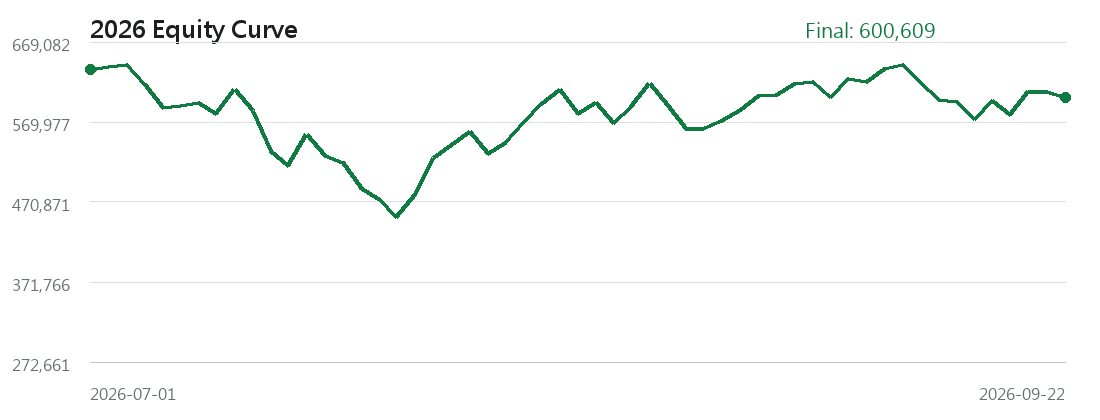
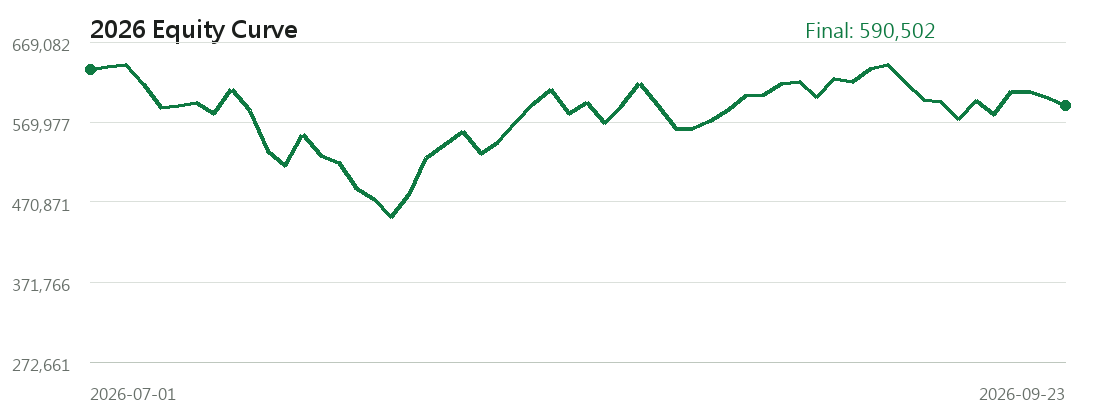
Update dashboard data

diff --git a/data.js b/data.js
@@ -1,5 +1,5 @@
 window.PUBLIC_FOLLOW_DATA = {
-  "generated_at": "2026-09-22T20:08:55.493049+08:00",
+  "generated_at": "2026-09-23T18:33:59.766392+08:00",
   "public_note": "Static follow dashboard only. Backend code, database, cache, and parameter search files are local-only.",
   "assumptions": {
     "initial_capital": 300000.0,
@@ -8,25 +8,25 @@ window.PUBLIC_FOLLOW_DATA = {
     "position_sizing": "Capital is split across up to 5 positions with integer-share sizing."
   },
   "data_status": {
-    "signal_date": "2026-09-22",
-    "latest_chip_date": "2026-09-22",
-    "latest_price_date": "2026-09-22",
-    "candidate_count": 4,
+    "signal_date": "2026-09-23",
+    "latest_chip_date": "2026-09-23",
+    "latest_price_date": "2026-09-23",
+    "candidate_count": 0,
     "warning": null
   },
   "metrics": {
     "initial_capital": 300000.0,
-    "final_value": 600609.045049286,
-    "cash": 8408.045049285924,
-    "total_return_pct": 100.20301501642868,
-    "annualized_return_pct": 176.63985917123662,
+    "final_value": 590502.045049286,
+    "cash": 7184.045049285924,
+    "total_return_pct": 96.83401501642865,
+    "annualized_return_pct": 168.77336020496898,
     "start_date": "2026-01-16",
-    "end_date": "2026-09-22",
-    "closed_trade_count": 62,
-    "entry_count": 63,
+    "end_date": "2026-09-23",
+    "closed_trade_count": 63,
+    "entry_count": 64,
     "open_position_count": 5,
-    "closed_trade_win_rate_pct": 50.0,
-    "average_closed_trade_return_pct": 0.30333407983665467,
+    "closed_trade_win_rate_pct": 49.2063492063492,
+    "average_closed_trade_return_pct": 0.2868693332657802,
     "max_drawdown_pct": -29.55548087303479,
     "performance_source": "actual_follow_account"
   },
@@ -360,6 +360,12 @@ window.PUBLIC_FOLLOW_DATA = {
       "equity": 600609.045049286,
       "cash": 8408.045049285924,
       "position_count": 5
+    },
+    {
+      "date": "2026-09-23",
+      "equity": 590502.045049286,
+      "cash": 7184.045049285924,
+      "position_count": 5
     }
   ],
   "holdings": [
@@ -369,11 +375,11 @@ window.PUBLIC_FOLLOW_DATA = {
       "quantity": 220,
       "entry_date": "2026-09-17",
       "entry_price": 558.0,
-      "current_price_date": "2026-09-22",
-      "current_price": 526.0,
-      "market_value": 115720.0,
-      "unrealized_return_pct": -5.734767025089605,
-      "holding_days": 5,
+      "current_price_date": "2026-09-23",
+      "current_price": 520.0,
+      "market_value": 114400.0,
+      "unrealized_return_pct": -6.810035842293905,
+      "holding_days": 6,
       "concept_tag_names": [
         "矽光子/CPO",
         "光纖傳輸/光通訊",
@@ -394,11 +400,11 @@ window.PUBLIC_FOLLOW_DATA = {
       "quantity": 567,
       "entry_date": "2026-09-18",
       "entry_price": 204.0,
-      "current_price_date": "2026-09-22",
-      "current_price": 205.0,
-      "market_value": 116235.0,
-      "unrealized_return_pct": 0.4901960784313708,
-      "holding_days": 4,
+      "current_price_date": "2026-09-23",
+      "current_price": 206.0,
+      "market_value": 116802.0,
+      "unrealized_return_pct": 0.9803921568627416,
+      "holding_days": 5,
       "concept_tag_names": [
         "電子通路",
         "證券券商",
@@ -416,39 +422,16 @@ window.PUBLIC_FOLLOW_DATA = {
       ]
     },
     {
-      "stock_id": "2455",
-      "company_name": "全新",
-      "quantity": 216,
-      "entry_date": "2026-09-18",
-      "entry_price": 545.0,
-      "current_price_date": "2026-09-22",
-      "current_price": 547.0,
-      "market_value": 118152.0,
-      "unrealized_return_pct": 0.3669724770642091,
-      "holding_days": 4,
-      "concept_tag_names": [
-        "RF前端/功率放大器",
-        "證券券商",
-        "光纖傳輸/光通訊",
-        "光通訊模組",
-        "塑膠原料/樹脂",
-        "投資控股",
-        "矽光子/CPO",
-        "矽光子/光通訊",
-        "網安/網路設備"
-      ]
-    },
-    {
       "stock_id": "6472",
       "company_name": "保瑞",
       "quantity": 273,
       "entry_date": "2026-09-21",
       "entry_price": 446.5,
-      "current_price_date": "2026-09-22",
-      "current_price": 420.0,
-      "market_value": 114660.0,
-      "unrealized_return_pct": -5.935050391937291,
-      "holding_days": 1,
+      "current_price_date": "2026-09-23",
+      "current_price": 436.0,
+      "market_value": 119028.0,
+      "unrealized_return_pct": -2.3516237402015694,
+      "holding_days": 2,
       "concept_tag_names": [
         "證券券商",
         "ASIC設計服務",
@@ -466,11 +449,11 @@ window.PUBLIC_FOLLOW_DATA = {
       "quantity": 402,
       "entry_date": "2026-09-22",
       "entry_price": 314.0,
-      "current_price_date": "2026-09-22",
-      "current_price": 317.0,
-      "market_value": 127434.0,
-      "unrealized_return_pct": 0.9554140127388644,
-      "holding_days": 0,
+      "current_price_date": "2026-09-23",
+      "current_price": 304.0,
+      "market_value": 122208.0,
+      "unrealized_return_pct": -3.1847133757961776,
+      "holding_days": 1,
       "concept_tag_names": [
         "CoWoS/先進封裝",
         "證券券商",
@@ -480,155 +463,49 @@ window.PUBLIC_FOLLOW_DATA = {
         "測試驗證服務",
         "半導體IP/設計服務"
       ]
-    }
-  ],
-  "trade_plan": {
-    "sell_orders": [
-      {
-        "stock_id": "2455",
-        "company_name": "全新",
-        "quantity": 216,
-        "price": 547.0,
-        "amount": 118152.0,
-        "concept_tag_names": [
-          "RF前端/功率放大器",
-          "證券券商",
-          "光纖傳輸/光通訊",
-          "光通訊模組",
-          "塑膠原料/樹脂",
-          "投資控股",
-          "矽光子/CPO",
-          "矽光子/光通訊",
-          "網安/網路設備"
-        ]
-      }
-    ],
-    "buy_orders": [
-      {
-        "stock_id": "8996",
-        "company_name": "高力",
-        "quantity": 72,
-        "price": 1655.0,
-        "amount": 119160.0,
-        "action": "SELL_WEAKEST_BUY_CANDIDATE",
-        "entry_date": null,
-        "concept_tag_names": [
-          "液冷散熱",
-          "證券券商",
-          "投資控股",
-          "網安/網路設備",
-          "網通設備"
-        ]
-      }
-    ],
-    "total_sell_amount": 118152.0,
-    "total_buy_amount": 119160.0,
-    "starting_cash": 8408.045049285924,
-    "net_cash_change": -1008.0,
-    "cash_after_plan": 7400.045049285924,
-    "needs_extra_cash": 0.0,
-    "remaining_cash": 7400.045049285924
-  },
-  "today_candidates": [
+    },
     {
-      "rank": 1,
-      "signal_date": "2026-09-22",
       "stock_id": "8996",
       "company_name": "高力",
-      "action": "SELL_WEAKEST_BUY_CANDIDATE",
-      "reference_price": 1655.0,
-      "target_amount": 120121.8090098572,
-      "suggested_quantity": 72,
-      "buy_amount": 119160.0,
-      "sell_stock_id": "2455",
-      "sell_company_name": "全新",
-      "sell_quantity": 216,
-      "sell_current_price": 547.0,
-      "sell_market_value": 118152.0,
+      "quantity": 72,
+      "entry_date": "2026-09-23",
+      "entry_price": 1640.0,
+      "current_price_date": "2026-09-23",
+      "current_price": 1540.0,
+      "market_value": 110880.0,
+      "unrealized_return_pct": -6.0975609756097615,
+      "holding_days": 0,
       "concept_tag_names": [
         "液冷散熱",
         "證券券商",
         "投資控股",
         "網安/網路設備",
         "網通設備"
-      ],
-      "sell_concept_tag_names": [
-        "RF前端/功率放大器",
-        "證券券商",
-        "光纖傳輸/光通訊",
-        "光通訊模組",
-        "塑膠原料/樹脂",
-        "投資控股",
-        "矽光子/CPO",
-        "矽光子/光通訊",
-        "網安/網路設備"
-      ],
-      "action_text": "換股買進"
-    },
-    {
-      "rank": 2,
-      "signal_date": "2026-09-22",
-      "stock_id": "8021",
-      "company_name": "尖點",
-      "action": "WATCH_WEAKER_THAN_CURRENT_HOLDING",
-      "reference_price": 477.0,
-      "target_amount": 120121.8090098572,
-      "suggested_quantity": 251,
-      "buy_amount": 119727.0,
-      "concept_tag_names": [
-        "PCB鑽針/探針",
-        "證券券商",
-        "投資控股"
-      ],
-      "action_text": "觀察"
-    },
-    {
-      "rank": 3,
-      "signal_date": "2026-09-22",
-      "stock_id": "5536",
-      "company_name": "聖暉*",
-      "action": "WATCH_WEAKER_THAN_CURRENT_HOLDING",
-      "reference_price": 888.0,
-      "target_amount": 120121.8090098572,
-      "suggested_quantity": 135,
-      "buy_amount": 119880.0,
-      "concept_tag_names": [
-        "無塵室/廠務工程",
-        "證券券商",
-        "工具機/自動化設備",
-        "工程營造",
-        "投資控股",
-        "新藥",
-        "晶圓製程設備零組件",
-        "檢測設備/服務",
-        "特用化學/材料",
-        "遊戲/VR裝置"
-      ],
-      "action_text": "觀察"
-    },
-    {
-      "rank": 4,
-      "signal_date": "2026-09-22",
-      "stock_id": "3605",
-      "company_name": "宏致",
-      "action": "WATCH_WEAKER_THAN_CURRENT_HOLDING",
-      "reference_price": 171.5,
-      "target_amount": 120121.8090098572,
-      "suggested_quantity": 700,
-      "buy_amount": 120050.0,
-      "concept_tag_names": [
-        "連接器/線束",
-        "證券券商",
-        "工具機零組件",
-        "投資控股",
-        "晶圓製程設備零組件",
-        "票券金融",
-        "精密沖壓/金屬件"
-      ],
-      "action_text": "觀察"
+      ]
     }
   ],
+  "trade_plan": {
+    "sell_orders": [],
+    "buy_orders": [],
+    "total_sell_amount": 0,
+    "total_buy_amount": 0,
+    "starting_cash": 7184.045049285924,
+    "net_cash_change": 0,
+    "cash_after_plan": 7184.045049285924,
+    "needs_extra_cash": 0.0,
+    "remaining_cash": 7184.045049285924
+  },
+  "today_candidates": [],
   "recent_entries": [
+    {
+      "stock_id": "8996",
+      "company_name": "高力",
+      "entry_date": "2026-09-23",
+      "entry_price": 1640.0,
+      "quantity": 72,
+      "cost": 118080.0,
+      "concept_tag_names": null
+    },
     {
       "stock_id": "2449",
       "company_name": "京元電子",
@@ -727,18 +604,22 @@ window.PUBLIC_FOLLOW_DATA = {
       "quantity": 55,
       "cost": 124300.0,
       "concept_tag_names": null
-    },
-    {
-      "stock_id": "8028",
-      "company_name": "昇陽半導體",
-      "entry_date": "2026-09-08",
-      "entry_price": 249.0,
-      "quantity": 497,
-      "cost": 123753.0,
-      "concept_tag_names": null
     }
   ],
   "recent_closed_trades": [
+    {
+      "stock_id": "2455",
+      "company_name": "全新",
+      "entry_date": "2026-09-18",
+      "entry_price": 545.0,
+      "quantity": 216,
+      "exit_date": "2026-09-23",
+      "exit_price": 541.0,
+      "exit_reason": "follow_signal_replace",
+      "return_pct": -0.7339449541284404,
+      "holding_days": 5,
+      "concept_tag_names": null
+    },
     {
       "stock_id": "3081",
       "company_name": "聯亞",
@@ -880,19 +761,6 @@ window.PUBLIC_FOLLOW_DATA = {
       "exit_reason": "follow_signal_replace",
       "return_pct": 8.775510204081627,
       "holding_days": 9,
-      "concept_tag_names": null
-    },
-    {
-      "stock_id": "2351",
-      "company_name": "順德",
-      "entry_date": "2026-08-28",
-      "entry_price": 240.0,
-      "quantity": 487,
-      "exit_date": "2026-09-08",
-      "exit_price": 233.5,
-      "exit_reason": "follow_signal_replace",
-      "return_pct": -2.708333333333335,
-      "holding_days": 11,
       "concept_tag_names": null
     }
   ]
